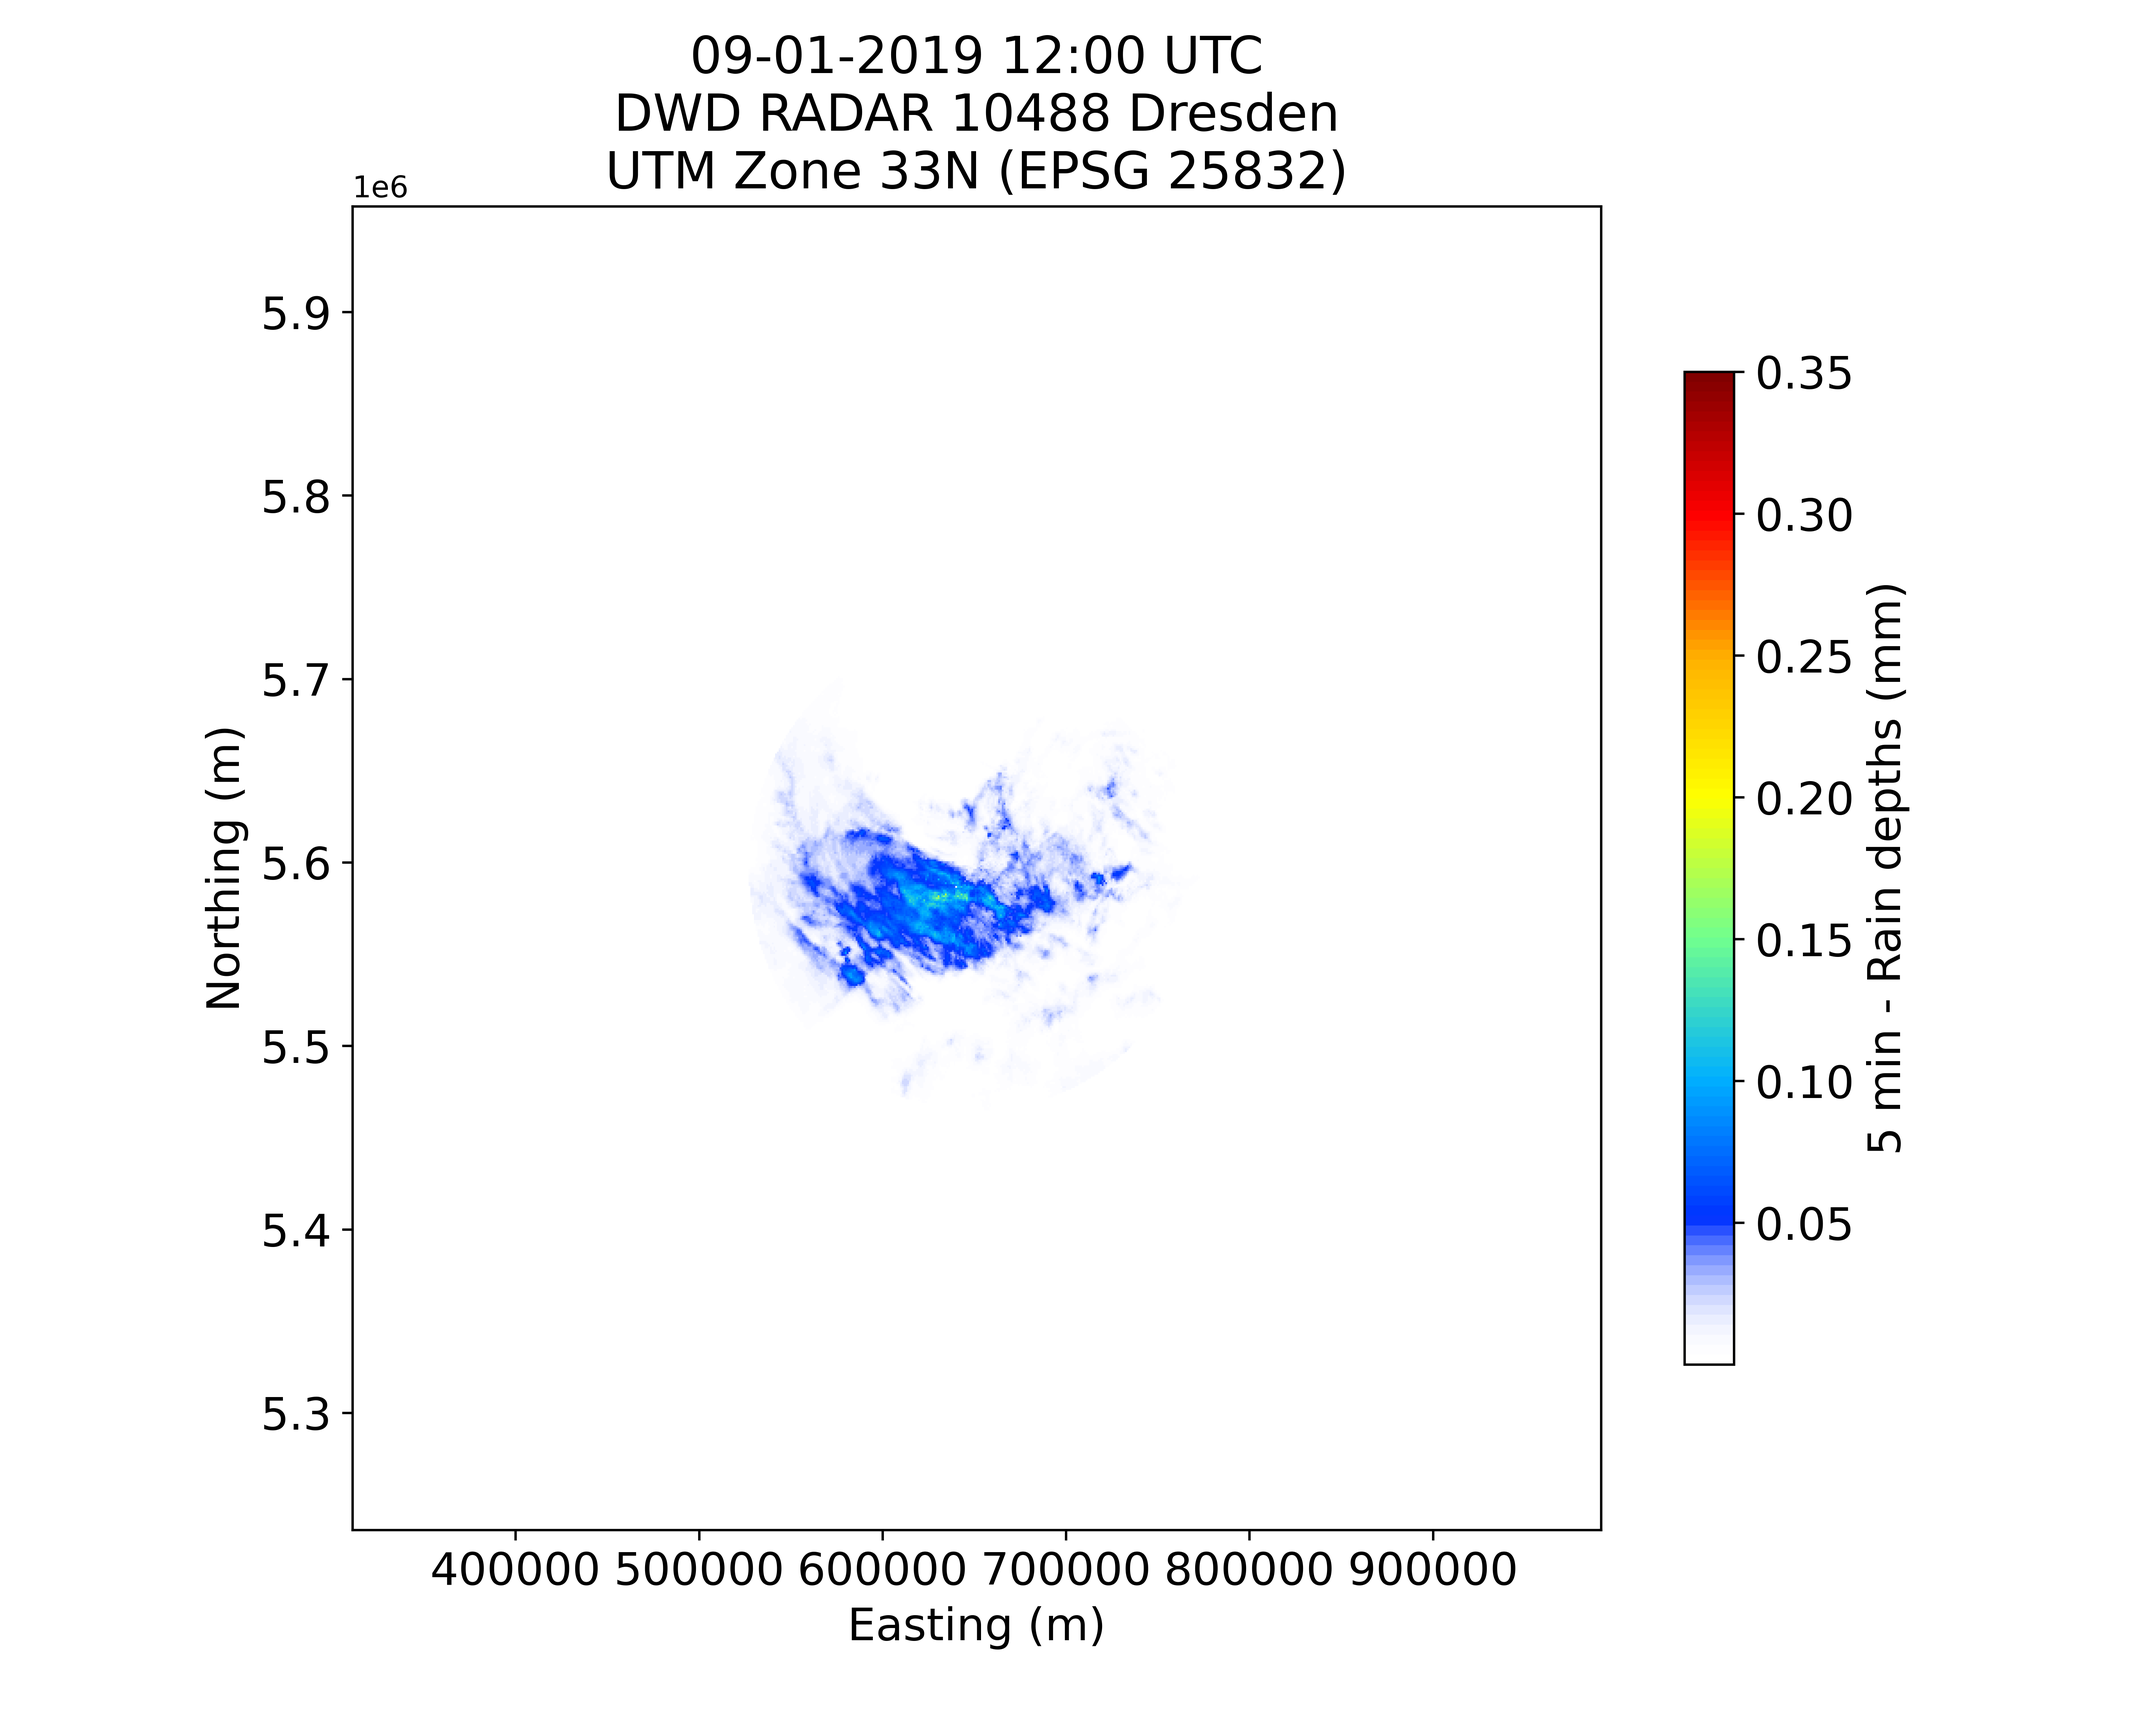
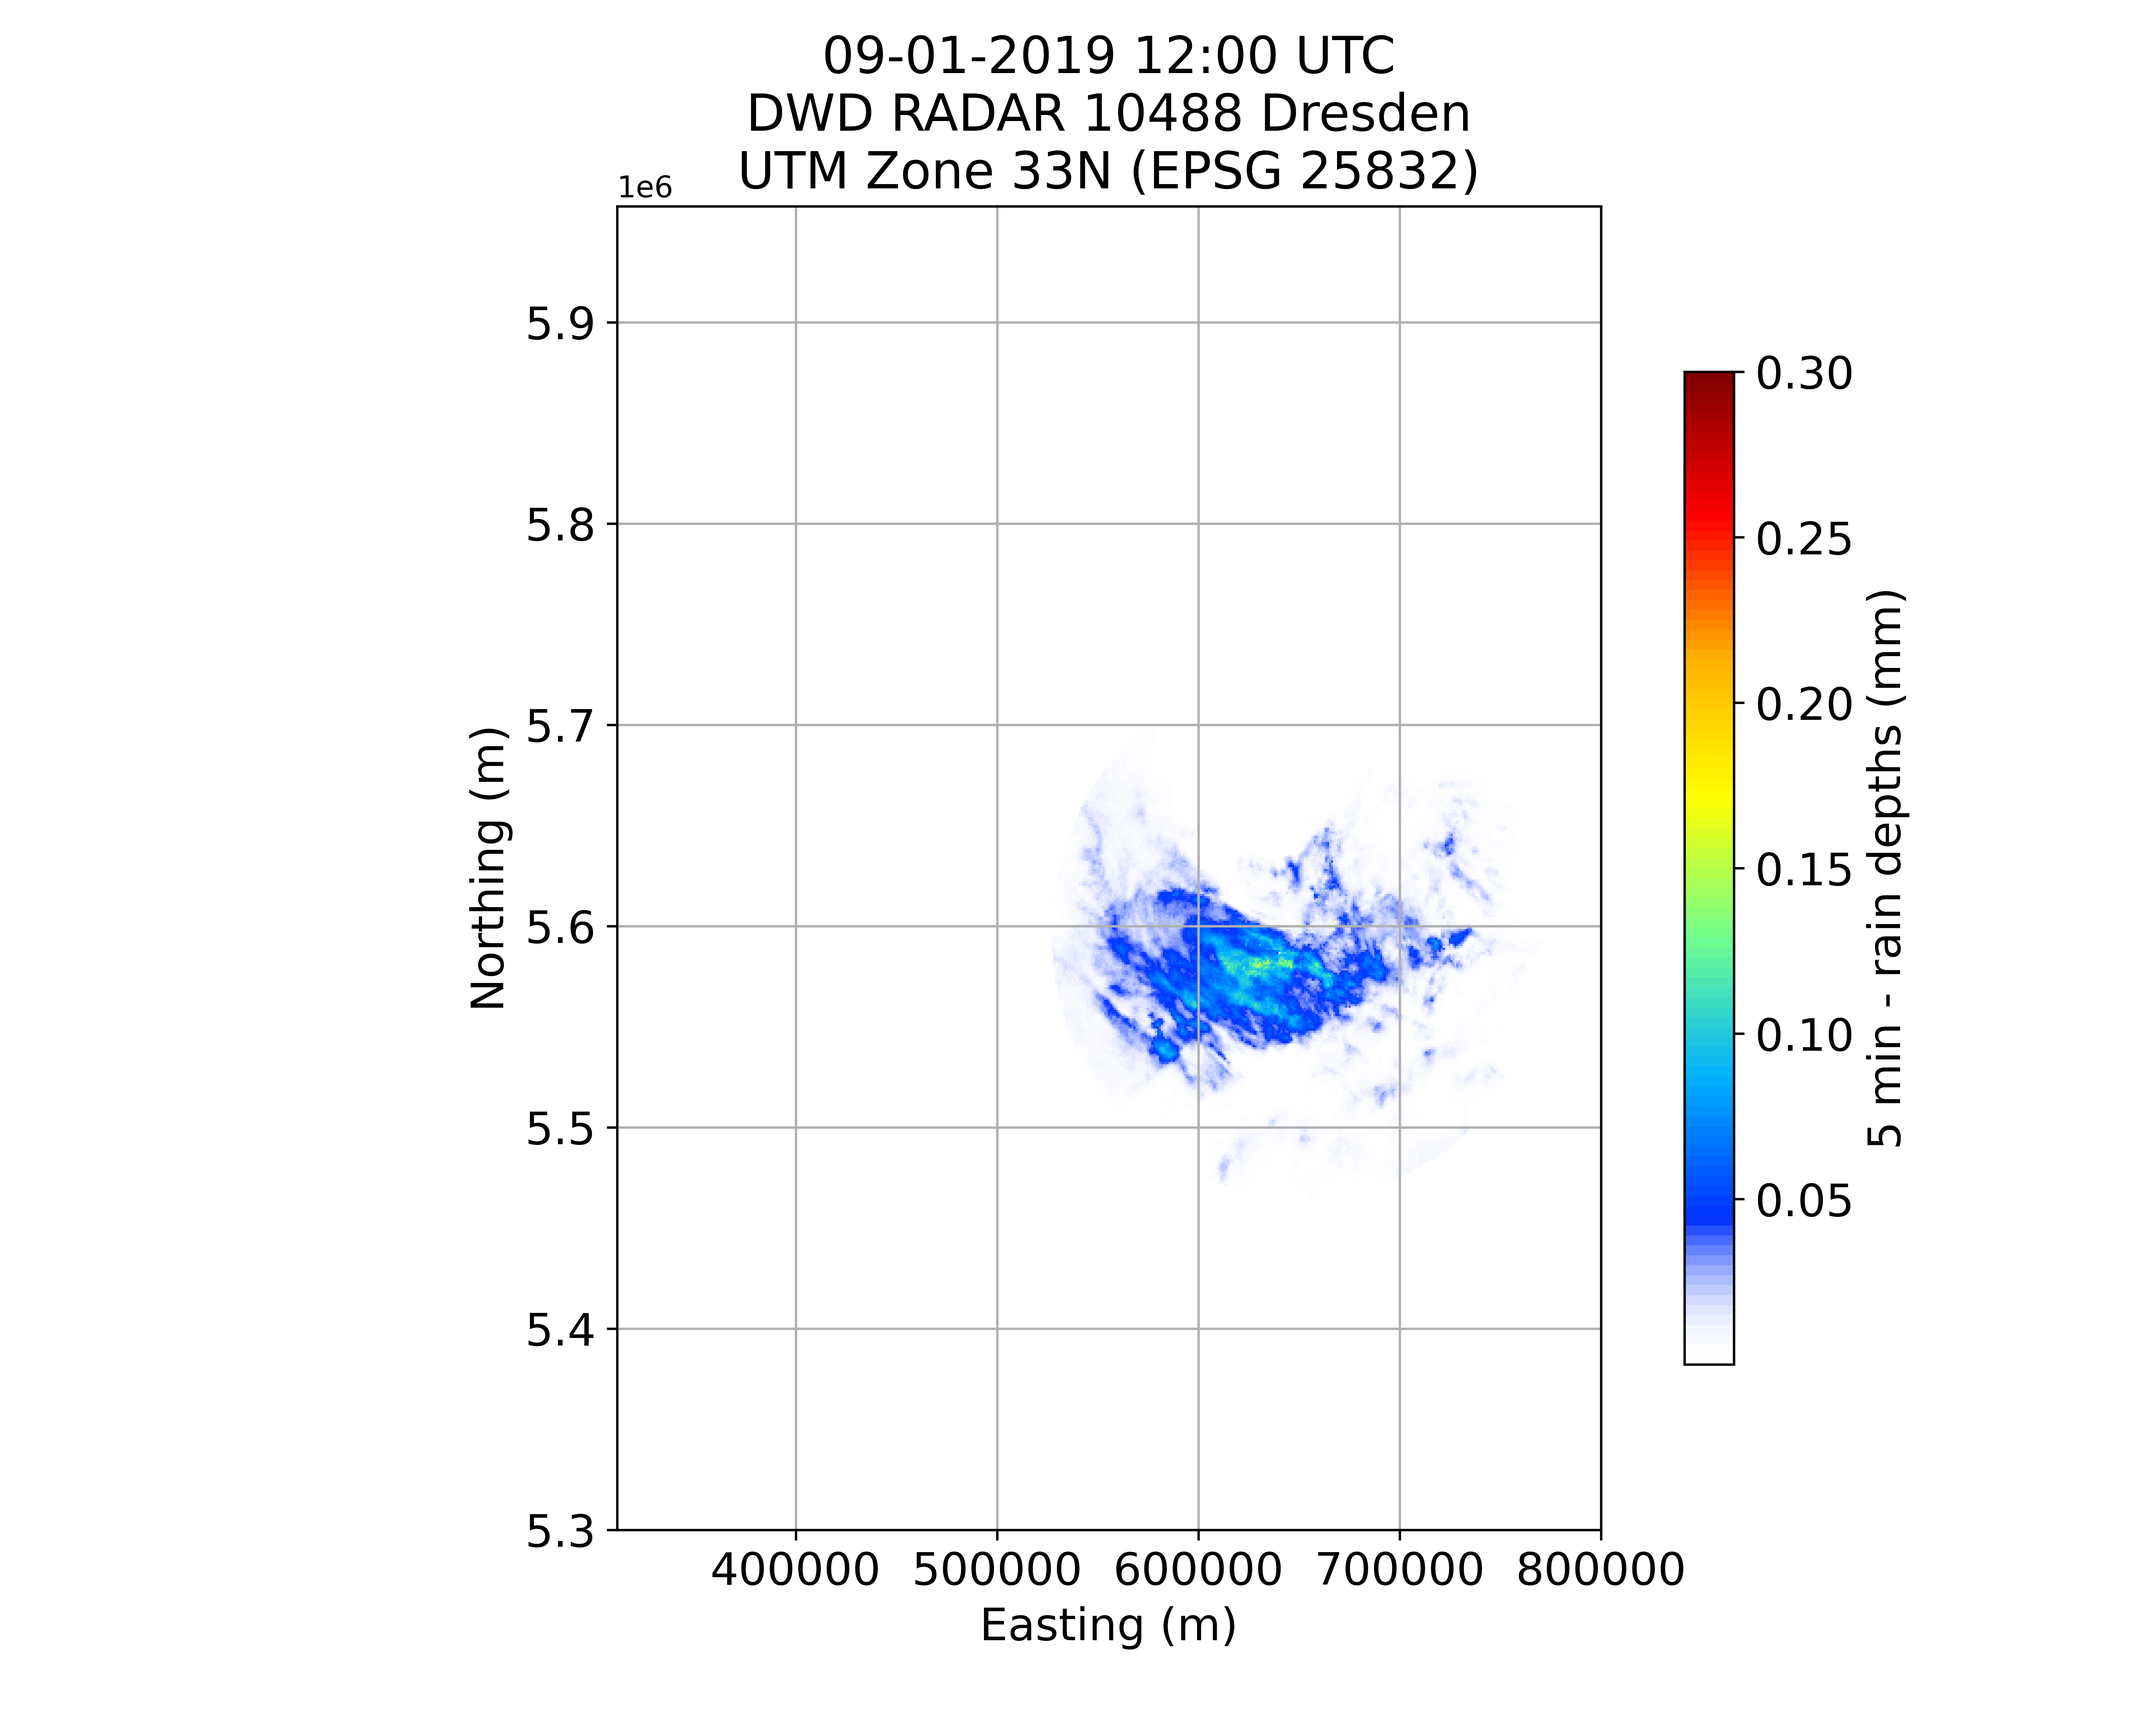
Set vmax=0.3. Add plot ax lim. Add docstrings.

diff --git a/code/func.py b/code/func.py
@@ -7,6 +7,7 @@ from colorbar import cm, cm_binary
 
 
 def metadata(filename):
+    """ Return radar site abbreviation, radar site description and datetime object."""
     site_abb = filename[26:29]
     dt = datetime.datetime.strptime(filename[15:25], "%y%m%d%H%M")
     if site_abb == "drs":
@@ -25,6 +26,7 @@ def metadata(filename):
 
 
 def plot_radar(data, filename, subtitle, what, cm="viridis", cbarlabel = "Reflectivity (dBZ)", plot_cbar = True):
+    """ Plot radar in polar coordinates."""
     site_abb, site_text, dt = metadata(filename)
     pl.figure(figsize=(10,8))
     ax, pm = wrl.vis.plot_ppi(data, cmap=cm)
@@ -54,9 +56,7 @@ def clutter_gabella(data, filename):
 
 
 def attcorr(data_no_clutter, filename):
-    """
-    Calculate integrated attenuation for each bin (Kraemer et al., 2008 and Jacobi et al., 2016).
-    """       
+    """Calculate integrated attenuation for each bin (Kraemer et al., 2008 and Jacobi et al., 2016)."""       
     site_abb, site_text, dt = metadata(filename)
     att = wrl.atten.correct_attenuation_constrained(data_no_clutter, 
                                                     a_max=1.67e-4, a_min=2.33e-5, n_a=100, b_max=0.7, b_min=0.65, n_b=6, # coefficients
@@ -69,6 +69,7 @@ def attcorr(data_no_clutter, filename):
 
 
 def plot_attenuation_per_bin(data_no_clutter, data_attcorr, filename, bin):
+    """Plot attenuation correction for single bins."""
     pl.figure(figsize=(10,8))
     pl.plot(data_no_clutter[bin], label="no AC", c="r", lw=1)
     pl.plot(data_attcorr[bin], label="with AC", c="g", lw=1)
@@ -82,6 +83,7 @@ def plot_attenuation_per_bin(data_no_clutter, data_attcorr, filename, bin):
 
 
 def plot_attenuation_mean_bin(data_no_clutter, data_attcorr, filename):
+    """Plot attenuation correction for all bins averaged."""
     pl.figure(figsize=(10,8))
     pl.plot(np.mean(data_no_clutter, axis=1), label="no AC", c="r", lw=1)
     pl.plot(np.mean(data_attcorr, axis=1), label="AC done", c="g", lw=1)
@@ -95,6 +97,7 @@ def plot_attenuation_mean_bin(data_no_clutter, data_attcorr, filename):
 
 
 def plot_raindepths(depths, filename):
+    """Plot rain depths in polar coordinates."""
     pl.figure(figsize=(10, 8))
     ax, im = wrl.vis.plot_ppi(depths, cmap=cm)
     ax = wrl.vis.plot_ppi_crosshair((0,0,0), ranges=[20,40,60,80,100,120,128])
@@ -120,17 +123,21 @@ def rain_depths(data, filename, duration_sec=300):
 
 
 def plot_gridded(xgrid, ygrid, gridded, filename, subtitle, proj_src, proj_trg_epsgno = 25832):
+    """Plot gridded field with defined epsg number."""
     xgrid, ygrid = wrl.georef.reproject(xgrid, ygrid, projection_source=proj_src, projection_target = wrl.georef.epsg_to_osr(proj_trg_epsgno))
     pl.figure(figsize=(10, 8))
     ax = pl.subplot(111, aspect="equal")
-    pm = pl.pcolormesh(xgrid, ygrid, gridded, cmap=cm, vmax=0.35)
+    pm = pl.pcolormesh(xgrid, ygrid, gridded, cmap=cm, vmax=0.3)
     cbar = pl.colorbar(pm, shrink=0.75)
     cbar.ax.tick_params(labelsize=15) 
-    cbar.set_label("5 min - Rain depths (mm)", fontsize=15)
-    pl.xticks(fontsize=15)
+    cbar.set_label("5 min - rain depths (mm)", fontsize=15)
+    pl.xticks(ticks=[400000, 500000, 600000, 700000, 800000], fontsize=15)
     pl.yticks(fontsize=15)
     pl.xlabel("Easting (m)", fontsize=15)
     pl.ylabel("Northing (m)", fontsize=15)
+    pl.ylim(bottom=5300000)
+    pl.xlim(right=800000)
+    pl.grid()
     site_abb, site_text, dt = metadata(filename)
     pl.title(f'{dt.strftime("%d-%m-%Y %H:%M")} UTC\n{site_text}\n{subtitle}', fontsize=17)
     pl.savefig(f"images/radar_dx_{site_abb}_{filename[15:25]}_grid_utm.png", dpi=600)    
@@ -139,9 +146,7 @@ def plot_gridded(xgrid, ygrid, gridded, filename, subtitle, proj_src, proj_trg_e
 
 
 def get_depths(filename):
-    """ 
-    Read data from file. Correct clutter and attenuation. Calculate and return 5min - rain depths as (360   ,128) - array.
-    """
+    """Read data from file. Correct clutter and attenuation. Calculate and return 5min - rain depths as (360   ,128) - array."""
     f = wrl.util.get_wradlib_data_file('example_data/'+filename)
     data, metadata = wrl.io.read_dx(f)
     plot_radar(data, filename, "Raw data", "raw")
@@ -158,6 +163,7 @@ def get_depths(filename):
 
 
 def get_coords(depths, radar_loc, centerxy):
+    """Project polar coordinates into a global xyz cartesian coordinates and grid data."""
     # Get cartesian coordinates in xyz-space.
     elevation = 0.5 # in degree
     azimuths = np.arange(0,360)

diff --git a/code/example_1901091200.py b/code/example_1901091200.py
@@ -1,11 +1,12 @@
 import imp
 import sys
+from turtle import right
 import numpy as np
 import wradlib as wrl
 import matplotlib.pylab as pl
 
 from colorbar import cm
-from func import plot_radar, plot_raindepths, plot_gridded, clutter_gabella, attcorr, plot_attenuation_mean_bin, plot_attenuation_per_bin, rain_depths, get_coords, get_depths, blending_radar_domains, blending_radar_domains
+from func import metadata, plot_radar, plot_raindepths, plot_gridded, clutter_gabella, attcorr, plot_attenuation_mean_bin, plot_attenuation_per_bin, rain_depths, get_coords, get_depths, blending_radar_domains, blending_radar_domains
 
 
 filename_drs = "raa00-dx_10488-1901091200-drs---bin"
@@ -19,6 +20,8 @@ site_loc_pro = (13.858212, 52.648667, 194)
 site_loc_umd = (11.176091, 52.160096, 185)
 site_loc_neu = (11.135034, 50.500114, 880)
 site_loc_eis = (12.402788, 49.540667, 799)
+
+# site_abb, site_text, dt = metadata(filename_drs)
 
 # Calculate and plot rain depths in polar coordinates.
 depths_drs = get_depths(filename_drs)
@@ -63,13 +66,17 @@ np.savetxt("code/utmgrid.txt", np.column_stack((xgrid, ygrid)), fmt = "%.4f")
 # Plotting
 fig = pl.figure(figsize=(10,8))
 ax = pl.subplot(111, aspect="equal")
-pl.pcolormesh(xgrid, ygrid, domain_final, cmap=cm, vmax=0.35)
+pl.pcolormesh(xgrid, ygrid, domain_final, cmap=cm, vmax=0.3)
 cbar = pl.colorbar()
 cbar.ax.tick_params(labelsize=15) 
 cbar.set_label("5 min - rain depths (mm)", fontsize=15)
 pl.grid(lw=0.5)
+pl.xticks(ticks=[400000, 500000, 600000, 700000, 800000], fontsize=15)
+pl.ylim(bottom=5300000)
+pl.xlim(left=350000, right=800000)
 pl.xlabel("Easting", fontsize=15)
 pl.ylabel("Northing", fontsize=15)
+pl.title('09-01-2019 12:00 UTC\nradar sites drs, umd, neu, eis, pro\nUTM Zone 33N (EPSG 25832)', fontsize=17)
 pl.savefig(f"images/composite_{filename_drs[15:25]}_utm", dpi=600)
 
 
